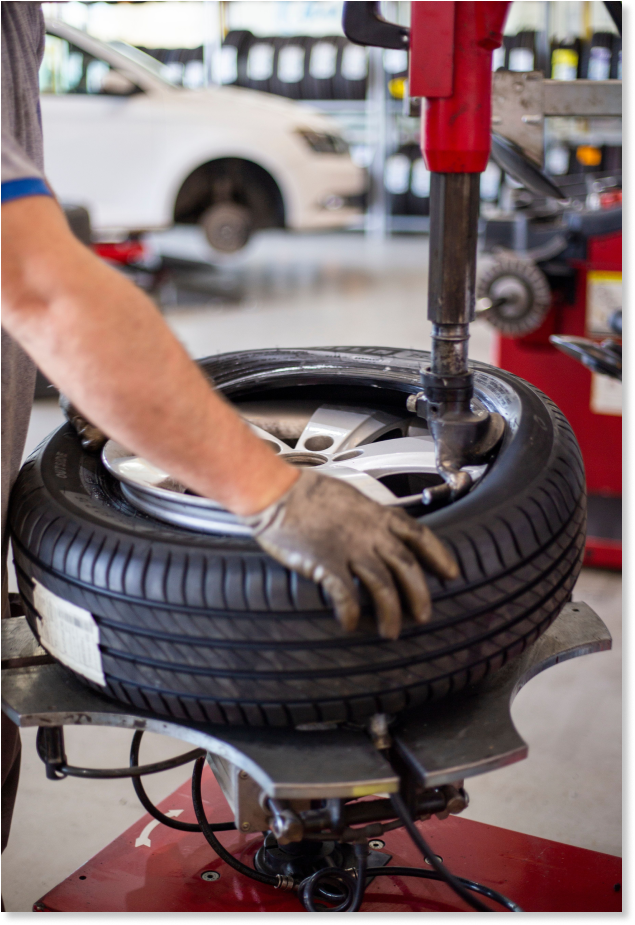
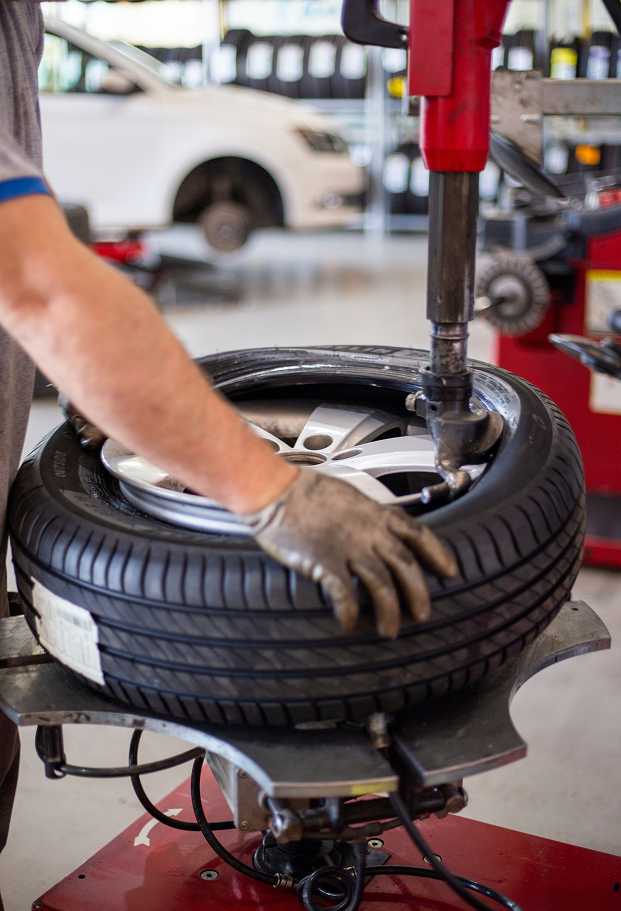
Implement contact form UI using shadcn components

diff --git a/src/components/ui/button.jsx b/src/components/ui/button.jsx
@@ -1,0 +1,57 @@
+import { Button as ButtonPrimitive } from "@base-ui/react/button"
+import { cva } from "class-variance-authority";
+import { cn } from "cn"
+
+const buttonVariants = cva(
+  "group/button inline-flex shrink-0 items-center justify-center rounded-md border border-transparent bg-clip-padding text-sm font-medium whitespace-nowrap transition-all outline-none select-none focus-visible:border-ring focus-visible:ring-3 focus-visible:ring-ring/50 active:not-aria-[haspopup]:translate-y-px disabled:pointer-events-none disabled:opacity-50 aria-invalid:border-destructive aria-invalid:ring-3 aria-invalid:ring-destructive/20 dark:aria-invalid:border-destructive/50 dark:aria-invalid:ring-destructive/40 [&_svg]:pointer-events-none [&_svg]:shrink-0 [&_svg:not([class*='size-'])]:size-4",
+  {
+    variants: {
+      variant: {
+        default: "bg-primary text-primary-foreground hover:bg-primary/80",
+        outline:
+          "border-border bg-background shadow-xs hover:bg-muted hover:text-foreground aria-expanded:bg-muted aria-expanded:text-foreground dark:border-input dark:bg-input/30 dark:hover:bg-input/50",
+        secondary:
+          "bg-secondary text-secondary-foreground hover:bg-[color-mix(in_oklch,var(--secondary),var(--foreground)_5%)] aria-expanded:bg-secondary aria-expanded:text-secondary-foreground",
+        ghost:
+          "hover:bg-muted hover:text-foreground aria-expanded:bg-muted aria-expanded:text-foreground dark:hover:bg-muted/50",
+        destructive:
+          "bg-destructive/10 text-destructive hover:bg-destructive/20 focus-visible:border-destructive/40 focus-visible:ring-destructive/20 dark:bg-destructive/20 dark:hover:bg-destructive/30 dark:focus-visible:ring-destructive/40",
+        link: "text-primary underline-offset-4 hover:underline",
+      },
+      size: {
+        default:
+          "h-9 gap-1.5 px-2.5 in-data-[slot=button-group]:rounded-md has-data-[icon=inline-end]:pr-2 has-data-[icon=inline-start]:pl-2",
+        xs: "h-6 gap-1 rounded-[min(var(--radius-md),8px)] px-2 text-xs in-data-[slot=button-group]:rounded-md has-data-[icon=inline-end]:pr-1.5 has-data-[icon=inline-start]:pl-1.5 [&_svg:not([class*='size-'])]:size-3",
+        sm: "h-8 gap-1 rounded-[min(var(--radius-md),10px)] px-2.5 in-data-[slot=button-group]:rounded-md has-data-[icon=inline-end]:pr-1.5 has-data-[icon=inline-start]:pl-1.5",
+        lg: "h-10 gap-1.5 px-2.5 has-data-[icon=inline-end]:pr-2 has-data-[icon=inline-start]:pl-2",
+        icon: "size-9",
+        "icon-xs":
+          "size-6 rounded-[min(var(--radius-md),8px)] in-data-[slot=button-group]:rounded-md [&_svg:not([class*='size-'])]:size-3",
+        "icon-sm":
+          "size-8 rounded-[min(var(--radius-md),10px)] in-data-[slot=button-group]:rounded-md",
+        "icon-lg": "size-10",
+      },
+    },
+    defaultVariants: {
+      variant: "default",
+      size: "default",
+    },
+  }
+)
+
+function Button({
+  className,
+  variant = "default",
+  size = "default",
+  ...props
+}) {
+  return (
+    <ButtonPrimitive
+      data-slot="button"
+      className={cn(buttonVariants({ variant, size, className }))}
+      {...props}
+    />
+  )
+}
+
+export { Button, buttonVariants }

diff --git a/src/components/home/ContactSection.jsx b/src/components/home/ContactSection.jsx
@@ -1,34 +1,53 @@
 import ContactImage from "../../assets/ContactImage.png";
+import { Button } from "@/components/ui/button";
+import {
+  Card,
+  CardHeader,
+  CardContent,
+  CardFooter,
+} from "@/components/ui/card";
+import { Label } from "@/components/ui/label";
+import { Input } from "@/components/ui/input";
+import { Textarea } from "../ui/textarea";
 
 export default function ContactSection() {
   return (
-    <section className="flex w-full flex-col items-center gap-8 p-8 md:flex-row">
+    <section className="grid grid-cols-2 gap-4 items-center">
       <img
         src={ContactImage}
         alt="Mechanic working on a tire"
-        className="w-1/3 md:w-2/5 lg:w-1/3"
+        className="w-64 mx-auto rounded-xl"
       />
-      <div className="flex w-full flex-col justify-center md:flex-1">
-        <h1 className="p-5 mb-5 text-center text-3xl font-bold">Contact</h1>
-        <form className="flex flex-col gap-4">
-          <div className="flex flex-col gap-4 md:flex-row">
-            <div className="flex flex-1 flex-col gap-4">
-              <input type="text" name="name" id="name" placeholder="Name" />
-              <input type="email" name="email" id="email" placeholder="Email" />
+      <Card size="sm" className="w-full mx-auto">
+        <CardHeader>
+          <h2 className="text-2xl font-bold">Contact</h2>
+        </CardHeader>
+        <CardContent>
+          <form>
+            <div className="flex flex-col gap-6">
+              <div className="grid gap-2">
+                <div className="flex items-center">
+                  <Label htmlFor="name">Name</Label>
+                </div>
+                <Input id="name" type="text" required />
+              </div>
+              <div className="grid gap-2">
+                <Label htmlFor="email-spacing">Email</Label>
+                <Input id="email-spacing" type="email" required />
+              </div>
+              <div className="grid gap-2">
+                <Label>Message</Label>
+                <Textarea />
+              </div>
             </div>
-            <a
-              href="mailto:garagegloauto@gmail.com"
-              className="flex-1 text-center text-blue-500 hover:underline"
-            >
-              Garagegloauto@gmail.com
-            </a>
-          </div>
-          <textarea placeholder="Message" />
-          <button type="submit" className="self-center">
+          </form>
+        </CardContent>
+        <CardFooter className="flex-col gap-2">
+          <Button type="submit" className="mx-auto">
             Submit
-          </button>
-        </form>
-      </div>
+          </Button>
+        </CardFooter>
+      </Card>
     </section>
   );
 }

diff --git a/src/components/ui/card.jsx b/src/components/ui/card.jsx
@@ -1,0 +1,97 @@
+import { cn } from "cn";
+
+function Card({ className, size = "default", ...props }) {
+  return (
+    <div
+      data-slot="card"
+      data-size={size}
+      className={cn(
+        "group/card flex flex-col gap-(--card-spacing) overflow-hidden rounded-xl bg-card py-(--card-spacing) text-sm text-card-foreground shadow-xs ring-1 ring-foreground/10 [--card-spacing:--spacing(6)] has-[>img:first-child]:pt-0 data-[size=sm]:[--card-spacing:--spacing(4)] *:[img:first-child]:rounded-t-xl *:[img:last-child]:rounded-b-xl",
+        className,
+      )}
+      {...props}
+    />
+  );
+}
+
+function CardHeader({ className, ...props }) {
+  return (
+    <div
+      data-slot="card-header"
+      className={cn(
+        "group/card-header @container/card-header grid auto-rows-min items-start gap-1 rounded-t-xl px-(--card-spacing) has-data-[slot=card-action]:grid-cols-[1fr_auto] has-data-[slot=card-description]:grid-rows-[auto_auto] [.border-b]:pb-(--card-spacing)",
+        className,
+      )}
+      {...props}
+    />
+  );
+}
+
+function CardTitle({ className, ...props }) {
+  return (
+    <div
+      data-slot="card-title"
+      className={cn(
+        "font-heading text-base leading-normal font-medium group-data-[size=sm]/card:text-sm",
+        className,
+      )}
+      {...props}
+    />
+  );
+}
+
+function CardDescription({ className, ...props }) {
+  return (
+    <div
+      data-slot="card-description"
+      className={cn("text-sm text-muted-foreground", className)}
+      {...props}
+    />
+  );
+}
+
+function CardAction({ className, ...props }) {
+  return (
+    <div
+      data-slot="card-action"
+      className={cn(
+        "col-start-2 row-span-2 row-start-1 self-start justify-self-end",
+        className,
+      )}
+      {...props}
+    />
+  );
+}
+
+function CardContent({ className, ...props }) {
+  return (
+    <div
+      data-slot="card-content"
+      className={cn("flex flex-col gap-3 px-(--card-spacing)", className)}
+      {...props}
+    />
+  );
+}
+
+function CardFooter({ className, ...props }) {
+  return (
+    <div
+      data-slot="card-footer"
+      className={cn(
+        "flex items-center rounded-b-xl px-(--card-spacing) [.border-t]:pt-(--card-spacing)",
+        className,
+      )}
+      {...props}
+    />
+  );
+}
+
+export {
+  Card,
+  CardHeader,
+  CardFooter,
+  CardTitle,
+  CardAction,
+  CardDescription,
+  CardContent,
+};

diff --git a/src/components/ui/input.jsx b/src/components/ui/input.jsx
@@ -1,0 +1,18 @@
+import { Input as InputPrimitive } from "@base-ui/react/input";
+import { cn } from "cn";
+
+function Input({ className, type, ...props }) {
+  return (
+    <InputPrimitive
+      type={type}
+      data-slot="input"
+      className={cn(
+        "h-9 w-full min-w-0 rounded-md border border-input bg-transparent px-2.5 py-1 text-base shadow-xs transition-[color,box-shadow] outline-none file:inline-flex file:h-7 file:border-0 file:bg-transparent file:text-sm file:font-medium file:text-foreground placeholder:text-muted-foreground focus-visible:border-ring focus-visible:ring-3 focus-visible:ring-ring/50 disabled:pointer-events-none disabled:cursor-not-allowed disabled:opacity-50 aria-invalid:border-destructive aria-invalid:ring-3 aria-invalid:ring-destructive/20 md:text-sm dark:bg-input/30 dark:aria-invalid:border-destructive/50 dark:aria-invalid:ring-destructive/40",
+        className,
+      )}
+      {...props}
+    />
+  );
+}
+
+export { Input };

diff --git a/src/components/ui/textarea.jsx b/src/components/ui/textarea.jsx
@@ -1,0 +1,16 @@
+import { cn } from "cn";
+
+function Textarea({ className, ...props }) {
+  return (
+    <textarea
+      data-slot="textarea"
+      className={cn(
+        "flex field-sizing-content min-h-16 w-full rounded-md border border-input bg-transparent px-2.5 py-2 text-base shadow-xs transition-[color,box-shadow] outline-none placeholder:text-muted-foreground focus-visible:border-ring focus-visible:ring-3 focus-visible:ring-ring/50 disabled:cursor-not-allowed disabled:opacity-50 aria-invalid:border-destructive aria-invalid:ring-3 aria-invalid:ring-destructive/20 md:text-sm dark:bg-input/30 dark:aria-invalid:border-destructive/50 dark:aria-invalid:ring-destructive/40",
+        className,
+      )}
+      {...props}
+    />
+  );
+}
+
+export { Textarea };

diff --git a/index.html b/index.html
@@ -1,13 +1,13 @@
 <!doctype html>
-<html lang="en">
+<html lang="en" class="dark">
   <head>
     <meta charset="UTF-8" />
     <link rel="icon" type="image/svg+xml" href="/favicon.svg" />
     <meta name="viewport" content="width=device-width, initial-scale=1.0" />
-    <title>gloportal</title>
+    <title>GloPortal</title>
   </head>
-  <body class="bg-gray-900 text-white">
-    <div class="grid justify-items-center" id="root"></div>
+  <body>
+    <div id="root"></div>
     <script type="module" src="/src/main.jsx"></script>
   </body>
 </html>

diff --git a/src/components/ui/label.jsx b/src/components/ui/label.jsx
@@ -1,0 +1,16 @@
+import { cn } from "cn";
+
+function Label({ className, ...props }) {
+  return (
+    <label
+      data-slot="label"
+      className={cn(
+        "flex items-center gap-2 text-sm leading-none font-medium select-none group-data-[disabled=true]:pointer-events-none group-data-[disabled=true]:opacity-50 peer-disabled:cursor-not-allowed peer-disabled:opacity-50",
+        className,
+      )}
+      {...props}
+    />
+  );
+}
+
+export { Label };

diff --git a/src/pages/Homepage.jsx b/src/pages/Homepage.jsx
@@ -10,7 +10,7 @@ export default function Homepage() {
   return (
     <>
       <Header role="customer" isHome={false} isSignedIn={false} />
-      <main>
+      <main className="p-8">
         <Hero />
         <BusinessHighlights />
         <ServiceCarousel />
